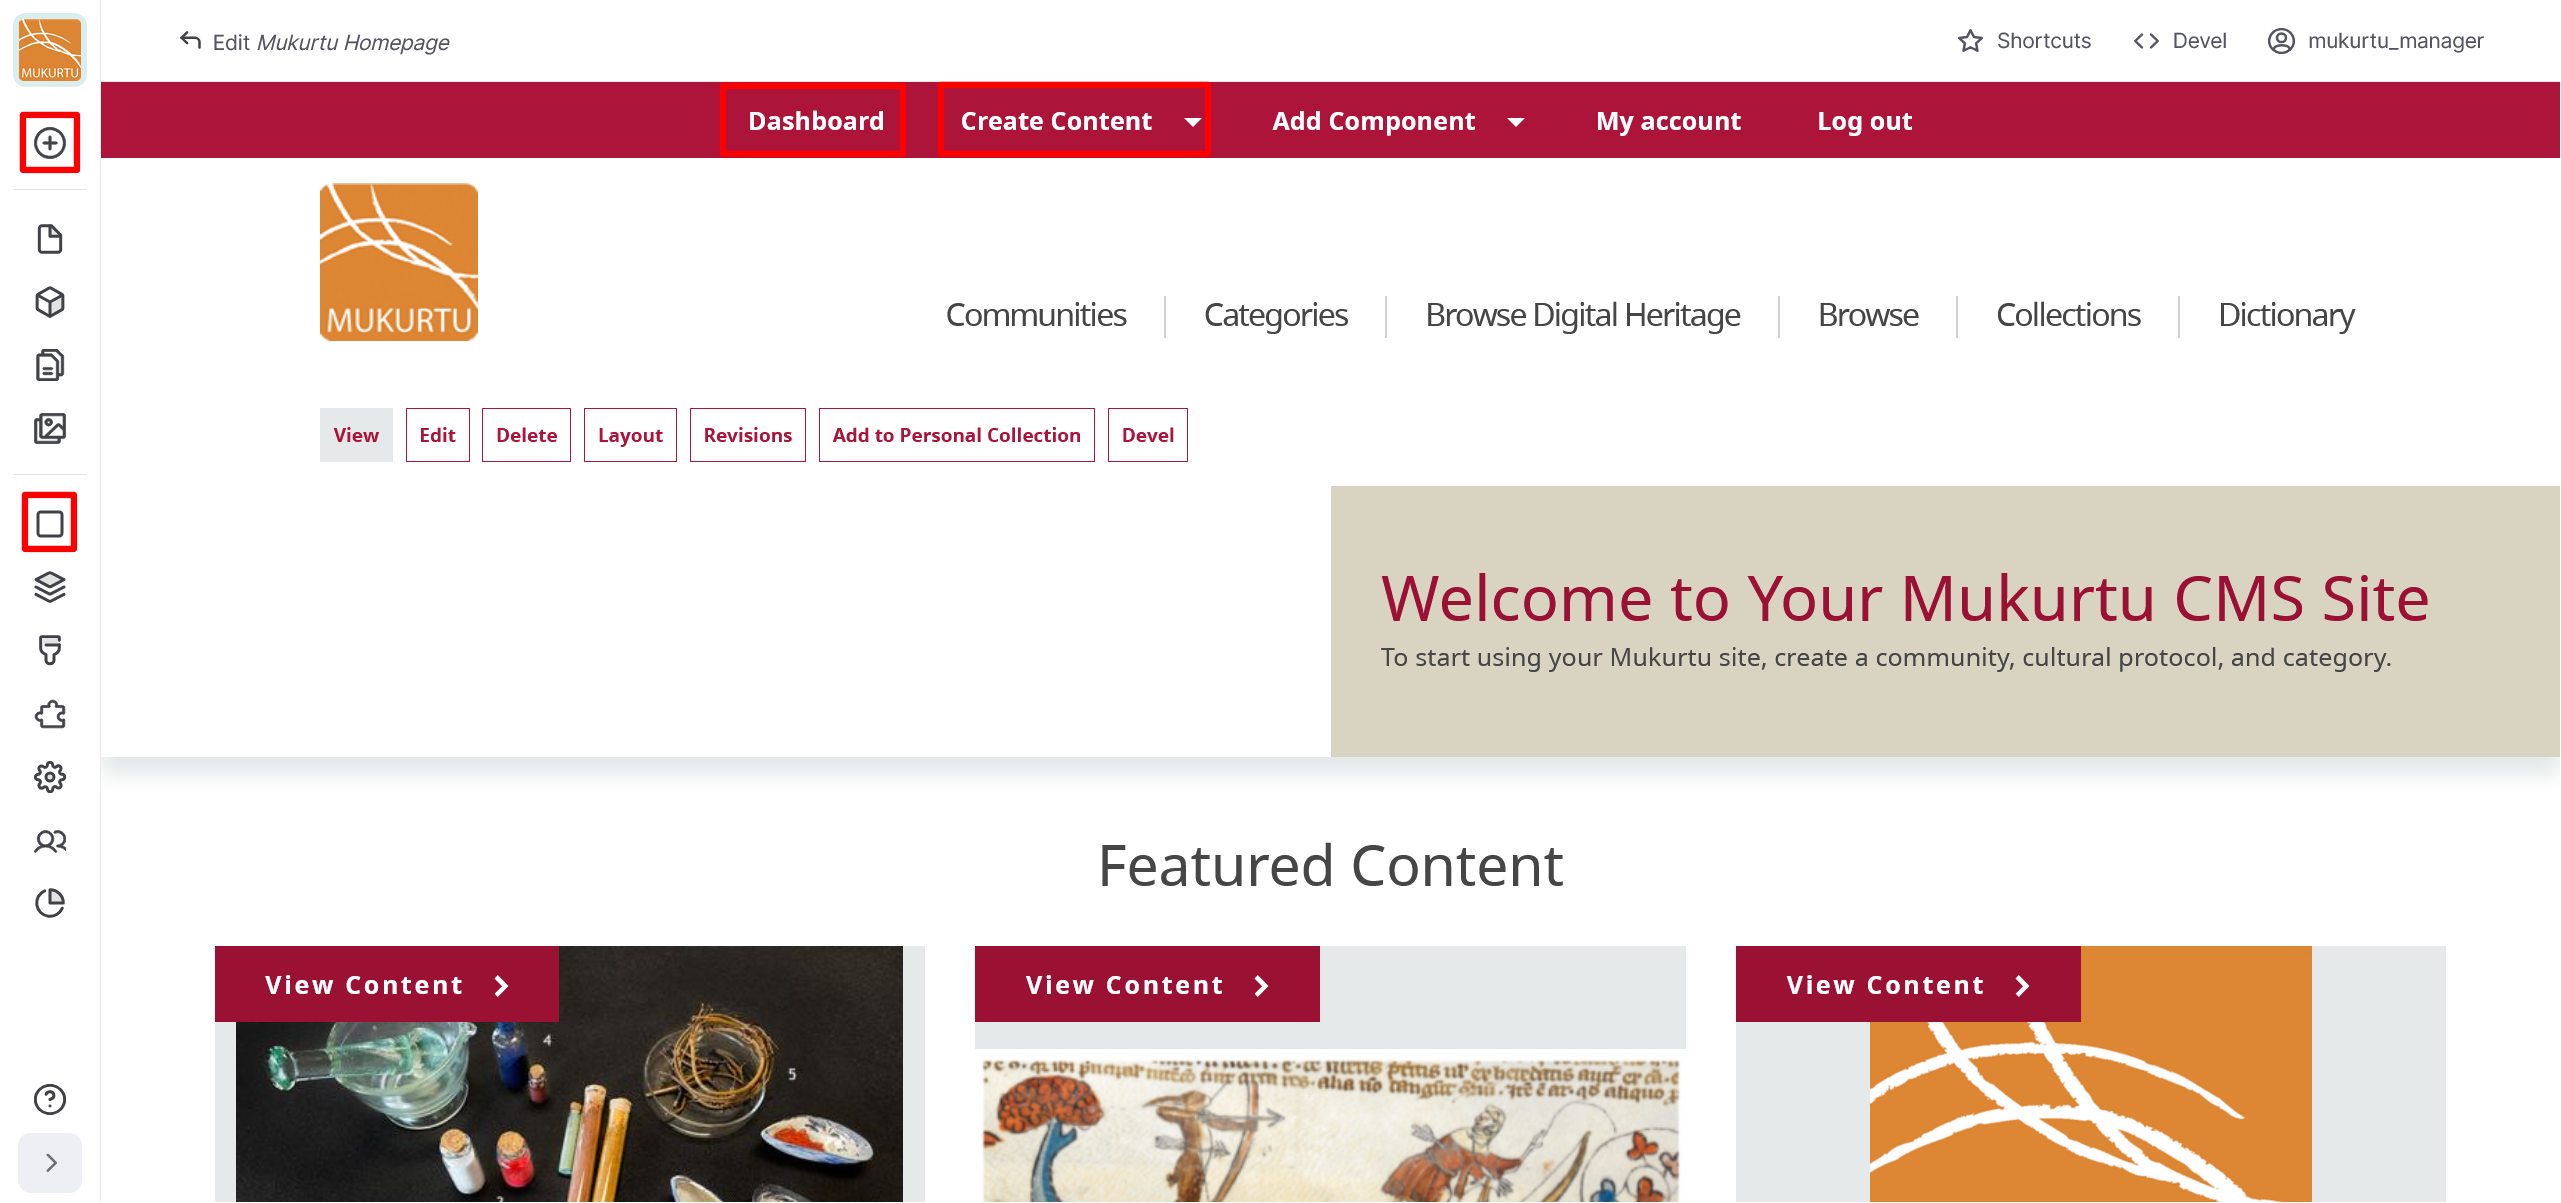
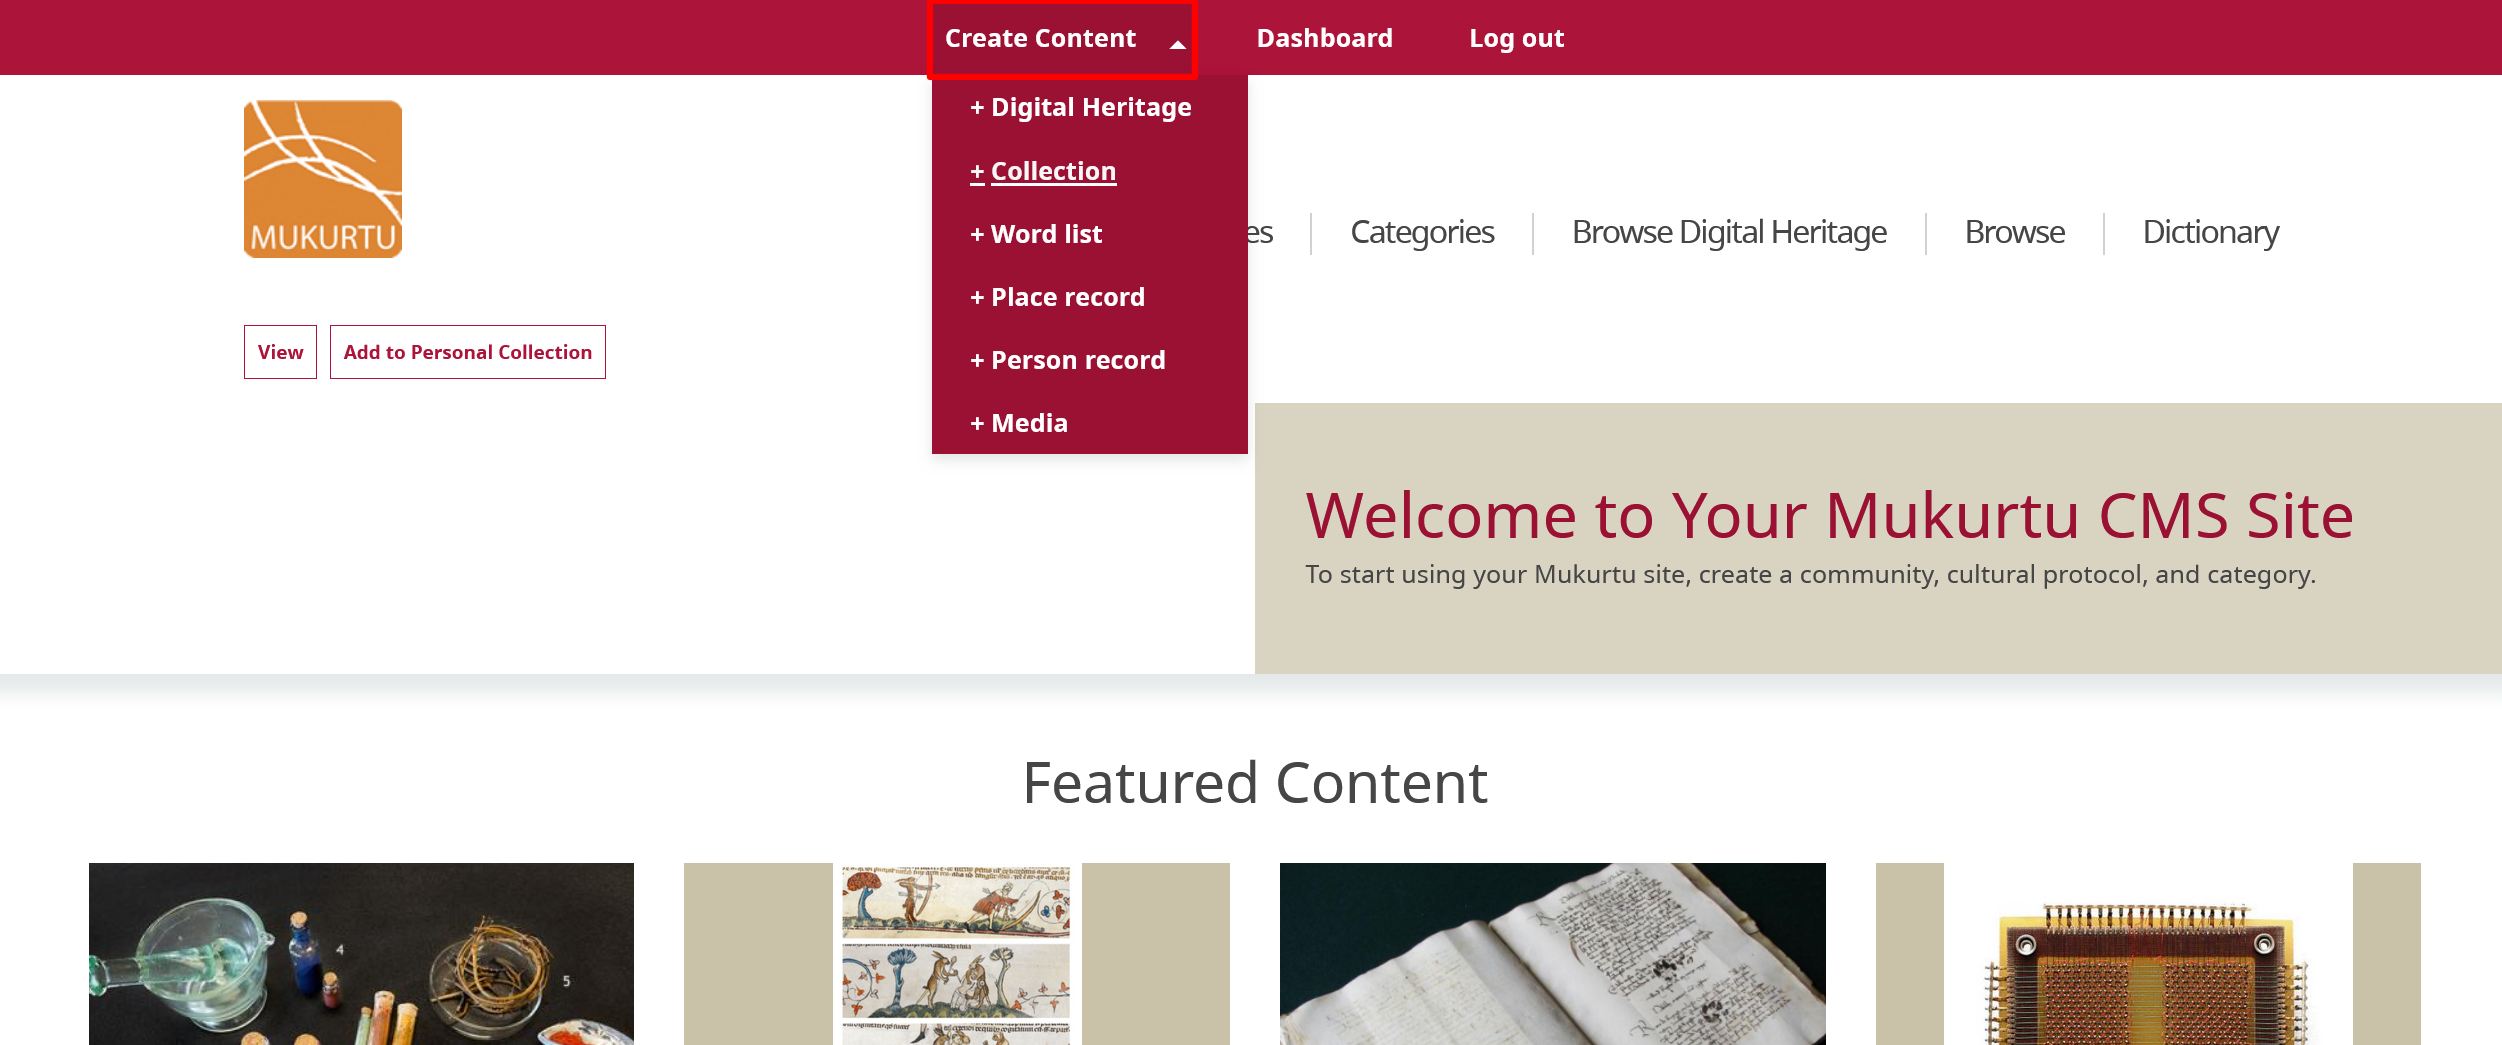
Collection screenshots update

diff --git a/docs/collections/CreateCollection.md b/docs/collections/CreateCollection.md
@@ -12,9 +12,11 @@ Collections are a tool to group and arrange content. They can be used to provide
 
 ## Create a new collection 
 
-There are several different ways to get started creating a collection in Mukurtu. You can create a collection from the **Create Content** dropdown menu, from the **+** icon on your left-hand sidebar, or from the **Dashboard** links in the header or the left-hand sidebar. 
+You can create a collection from the **Create Content** dropdown menu or from your **Dashboard**. 
 
-![Screenshot of the Mukurtu 4 home page with the four different options to begin creating a collection highlighted.](../_embeds/createcollections1.png)
+![Screenshot of the Mukurtu 4 home page with the create content and collection link highlighted.](../_embeds/createcollections1.png)
+
+![Screenshot of the Dashboard with the add collection link highlighted in the content section.](../_embeds/createcollections1.5.png)
     
 Select **Collection** to begin creating your collection. The remaining steps to create a collection are the same.
 

diff --git a/docs/communities-cultural-protocols-categories/CreateCategories.md b/docs/communities-cultural-protocols-categories/CreateCategories.md
@@ -18,7 +18,7 @@ You can create categories through the top-level Add Component menu or through th
 1. Hover over the **Create** menu in the left-hand admin menu. 
 2. Select the **Taxonomy** dropdown, then select the **Category** link. 
 
-    ![Screenshot of the +Category menu option highlighted](../_embeds/Categoryupdate1.png)
+    ![Screenshot of the admin sidebar with the taxonomy menu option and the category link highlighted](../_embeds/Categoryupdate1.png)
 
 ## From the Dashboard
 
